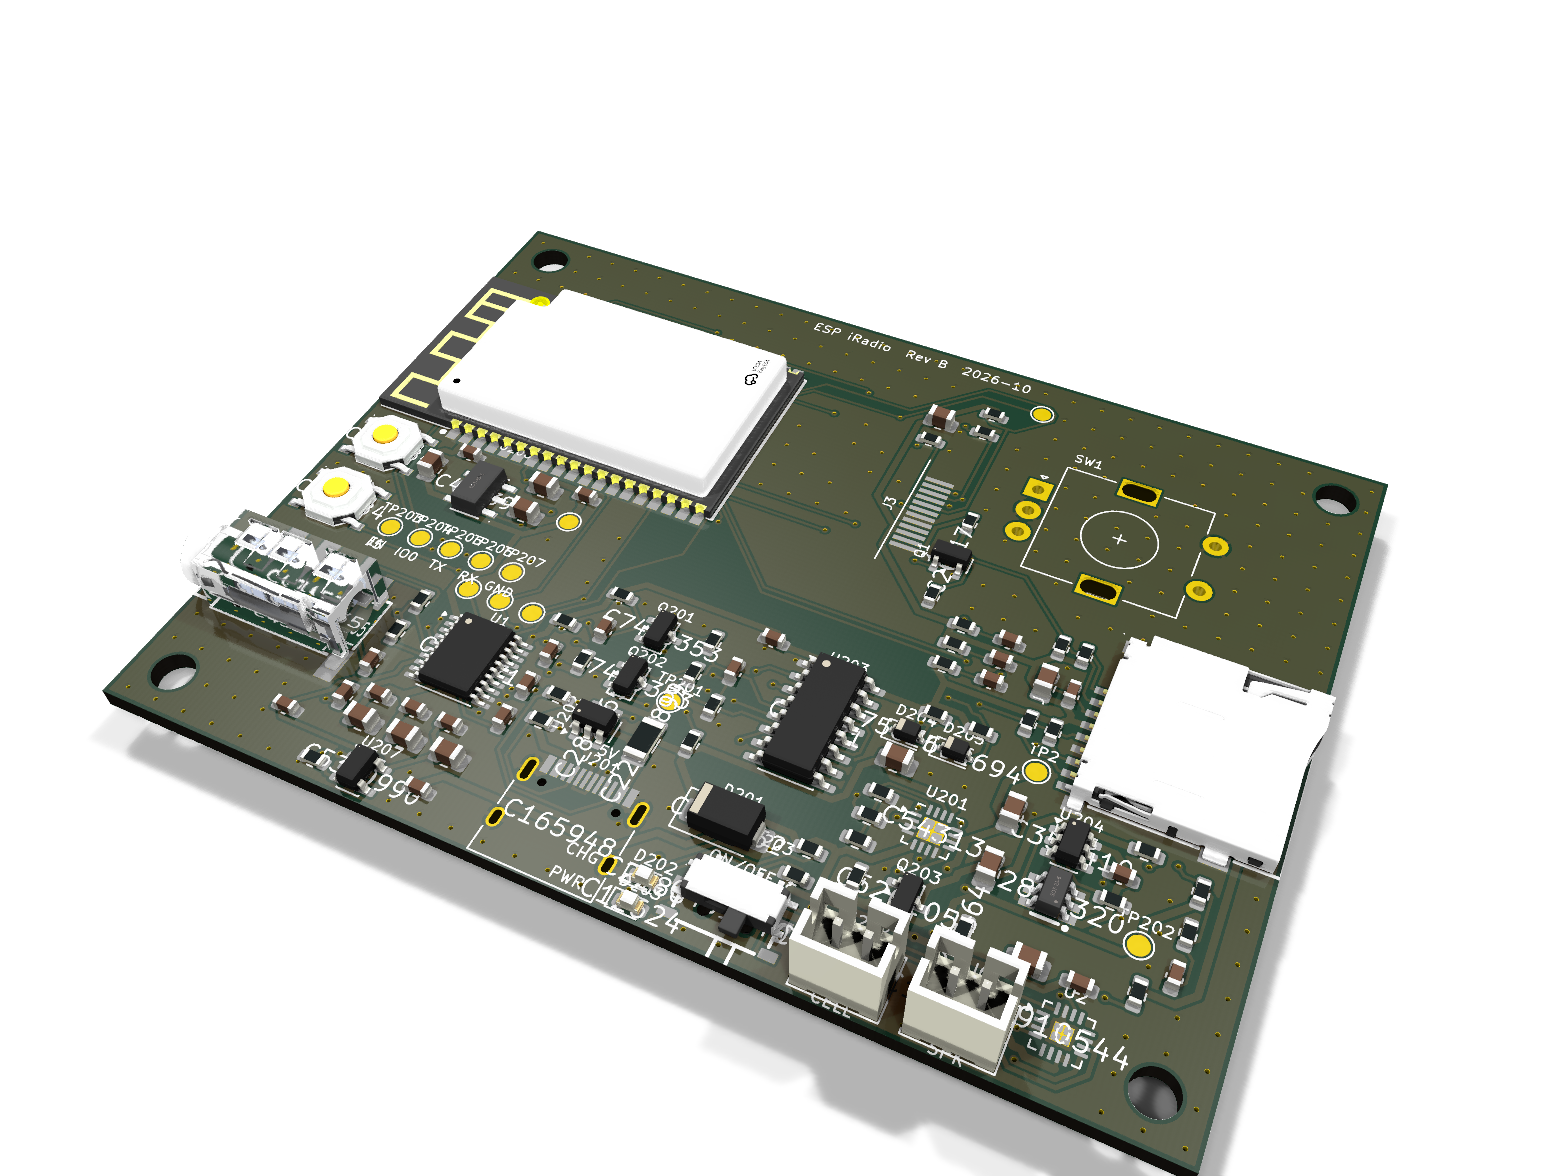
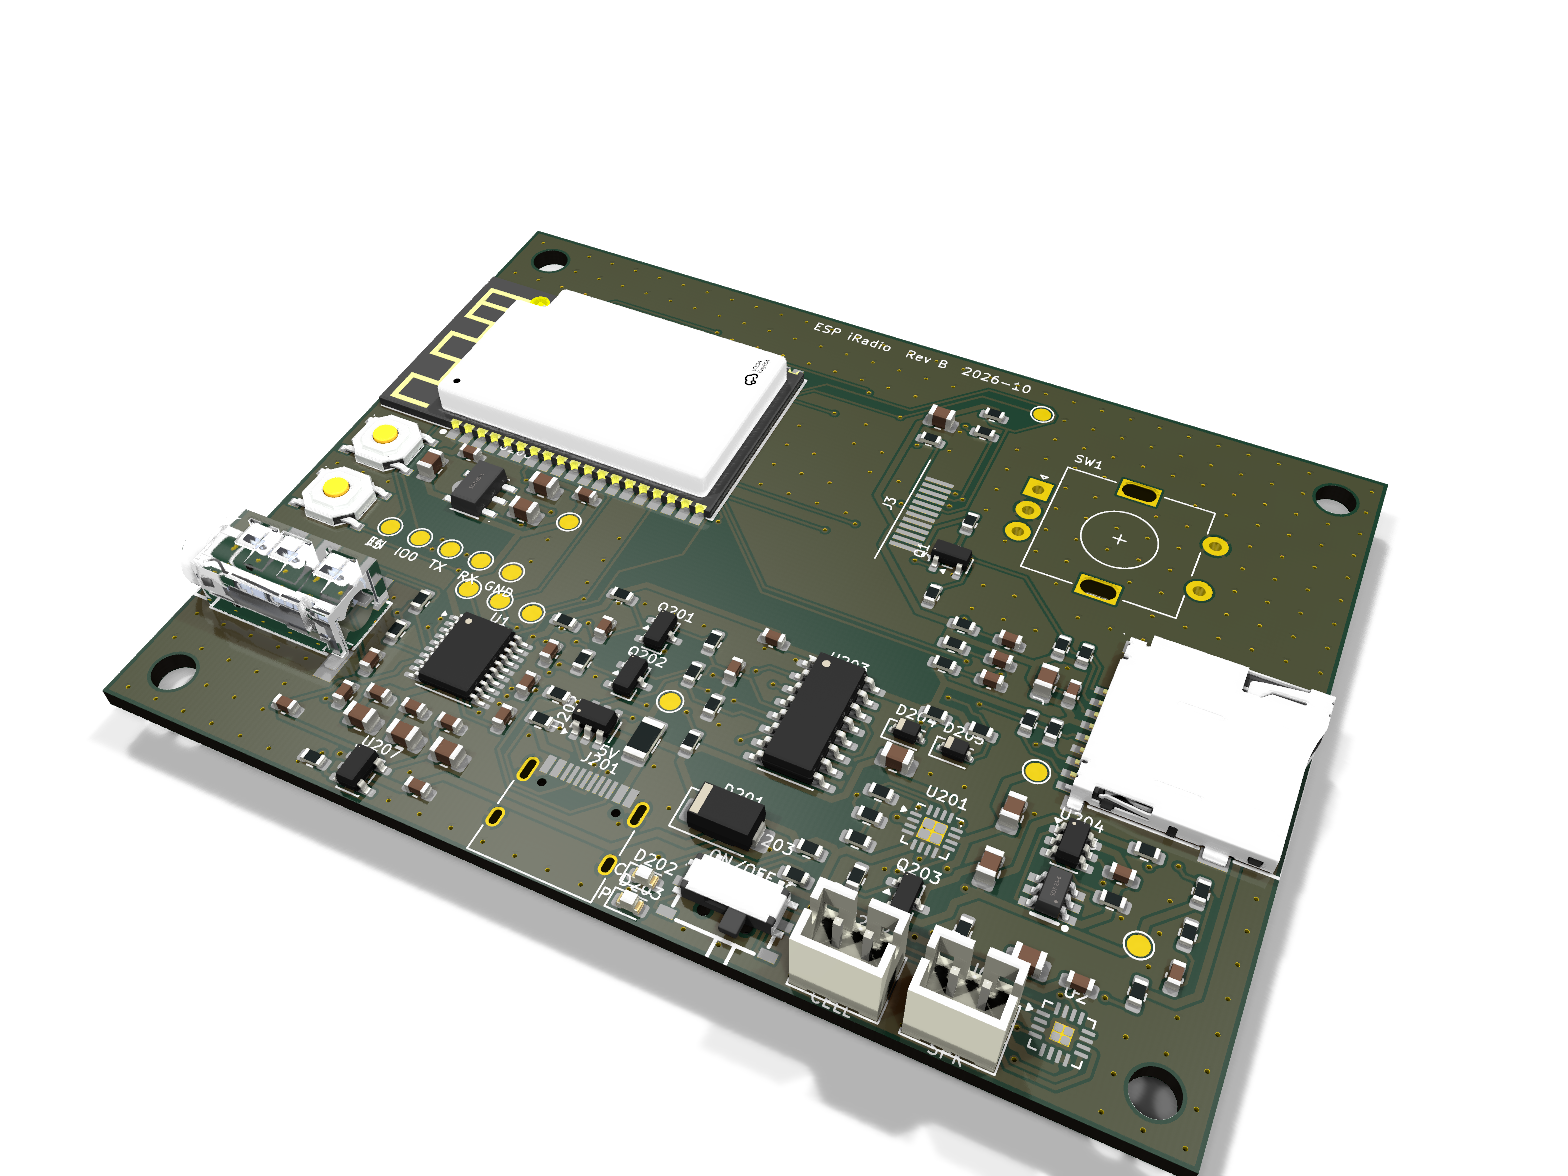
KiCad Rev B layout: review hand edits (thermal vias, LED labels)

diff --git a/KiCad/esp-iradio/tools/touchup.py b/KiCad/esp-iradio/tools/touchup.py
@@ -1,0 +1,119 @@
+"""Hand edits on the routed esp-iradio.kicad_pcb (agreed in the layout review, claude-/grok-bevindingen.md
+round 5); no regeneration, no new route. Run with KiCad's Python after stitch.py and silk.py:
+1. U201 (BQ24074) exposed pad: a fifth thermal via in the middle of the four (07: >= 5);
+2. U3 (WROVER-IE) ground land, 3 x 3 squares: a via at each inner corner of the gaps, as in
+   Espressif's land pattern (datasheet v2.4, figure 15), small and tented;
+3. charge-LED labels: "C" (CHG, red D202) and "P" (PWR, green D203) left of the LEDs, off the
+   USB-C body (the full words do not fit between the connector and the LEDs).
+Every new via is checked against the copper of other nets on all layers and against other holes;
+it is skipped (with a message) when it does not fit. Refills the zones and saves.
+Idempotent: a via already at the spot is not added twice."""
+import math
+import os
+import pcbnew
+
+HERE = os.path.dirname(os.path.abspath(__file__))
+PCB = os.path.join(os.path.dirname(HERE), 'esp-iradio.kicad_pcb')
+mm, tomm = pcbnew.FromMM, pcbnew.ToMM
+OX, OY = 100.0, 100.0
+CLR, HOLE_GAP = 0.2, 0.25
+
+board = pcbnew.LoadBoard(PCB)
+gnd = board.FindNet('GND')
+
+
+def seg_dist(px, py, ax, ay, bx, by):
+    dx, dy = bx - ax, by - ay
+    L = dx * dx + dy * dy
+    t = 0 if L == 0 else max(0, min(1, ((px - ax) * dx + (py - ay) * dy) / L))
+    return math.hypot(px - (ax + t * dx), py - (ay + t * dy))
+
+
+def via_fits(x, y, d, drill):
+    r = mm(d / 2)
+    c = pcbnew.VECTOR2I(int(x), int(y))
+    seg = pcbnew.SEG(c, c)
+    for t in board.GetTracks():
+        if t.GetClass() == 'PCB_VIA':
+            q = t.GetPosition()
+            gap = math.hypot(q.x - x, q.y - y) - mm(drill / 2) - t.GetDrillValue() / 2
+            if gap < mm(HOLE_GAP):
+                return 'hole %.2f mm from via at %s' % (tomm(gap), (round(tomm(q.x) - OX, 2), round(tomm(q.y) - OY, 2)))
+            if t.GetNetname() != 'GND' and math.hypot(q.x - x, q.y - y) < r + t.GetWidth(pcbnew.F_Cu) / 2 + mm(CLR):
+                return 'too close to a %s via' % t.GetNetname()
+        elif t.GetNetname() != 'GND':
+            a, b = t.GetStart(), t.GetEnd()
+            if seg_dist(x, y, a.x, a.y, b.x, b.y) < r + t.GetWidth() / 2 + mm(CLR):
+                return 'too close to a %s track on %s' % (t.GetNetname(), t.GetLayerName())
+    for fp in board.GetFootprints():
+        for p in fp.Pads():
+            if p.GetDrillSizeX() > 0:
+                q = p.GetPosition()
+                gap = math.hypot(q.x - x, q.y - y) - mm(drill / 2) - p.GetDrillSizeX() / 2
+                if gap < mm(HOLE_GAP):
+                    return 'hole %.2f mm from a hole of %s' % (tomm(gap), fp.GetReference())
+            if p.GetNetname() == 'GND':
+                continue
+            for lay in (pcbnew.F_Cu, pcbnew.B_Cu):
+                if p.IsOnLayer(lay) and p.GetEffectiveShape(lay).Collide(seg, int(r + mm(CLR))):
+                    return 'too close to pad %s of %s' % (p.GetNumber(), fp.GetReference())
+    return None
+
+
+def add_via(x, y, d, drill, why):
+    for t in board.GetTracks():
+        if t.GetClass() == 'PCB_VIA' and math.hypot(t.GetPosition().x - x, t.GetPosition().y - y) < mm(0.05):
+            print('via already there:', why)
+            return True
+    problem = via_fits(x, y, d, drill)
+    if problem:
+        print('SKIPPED %s: %s' % (why, problem))
+        return False
+    v = pcbnew.PCB_VIA(board)
+    v.SetPosition(pcbnew.VECTOR2I(int(x), int(y)))
+    v.SetWidth(mm(d))
+    v.SetDrill(mm(drill))
+    v.SetNet(gnd)
+    v.SetViaType(pcbnew.VIATYPE_THROUGH)
+    board.Add(v)
+    print('via added:', why)
+    return True
+
+
+# 1. fifth thermal via under the BQ24074: the centre of its exposed pad
+fp = board.FindFootprintByReference('U201')
+ep = [p for p in fp.Pads() if p.GetNumber() == '17' and p.GetDrillSizeX() == 0][0]
+c = ep.GetPosition()
+# the centre first, then the middles between the footprint's four vias (0.59 mm off centre)
+off = mm(0.59)
+for dx, dy in ((0, 0), (0, -off), (0, off), (-off, 0), (off, 0)):
+    if add_via(c.x + dx, c.y + dy, 0.5, 0.2, 'U201 exposed pad, 5th thermal via (%+.2f, %+.2f)' % (tomm(dx), tomm(dy))):
+        break
+
+# 2. WROVER ground land: vias at the four inner corners of the 3 x 3 squares
+fp = board.FindFootprintByReference('U3')
+sq = [p.GetPosition() for p in fp.Pads() if p.GetNumber() == '39']
+xs = sorted({q.x for q in sq})
+ys = sorted({q.y for q in sq})
+for i in range(2):
+    for j in range(2):
+        x = (xs[i] + xs[i + 1]) / 2
+        y = (ys[j] + ys[j + 1]) / 2
+        add_via(x, y, 0.4, 0.2, 'U3 ground land (%.2f, %.2f)' % (tomm(x) - OX, tomm(y) - OY))
+
+# 3. charge-LED labels
+for ref, old, new in (('D202', 'CHG', 'C'), ('D203', 'PWR', 'P')):
+    led = board.FindFootprintByReference(ref)
+    p1 = [p for p in led.Pads() if p.GetNumber() == '1'][0]
+    x = p1.GetPosition().x - p1.GetSize().x / 2 - mm(0.2)
+    y = p1.GetPosition().y
+    for d in board.GetDrawings():
+        if isinstance(d, pcbnew.PCB_TEXT) and d.GetLayer() == pcbnew.F_SilkS and d.GetText() in (old, new):
+            d.SetText(new)
+            d.SetHorizJustify(pcbnew.GR_TEXT_H_ALIGN_RIGHT)
+            d.SetPosition(pcbnew.VECTOR2I(int(x), int(y)))
+            print('label %s -> "%s" at (%.2f, %.2f)' % (old, new, tomm(x) - OX, tomm(y) - OY))
+
+pcbnew.ZONE_FILLER(board).Fill(board.Zones())
+board.Save(PCB)
+print('saved')

diff --git a/AGENTS.md b/AGENTS.md
@@ -397,8 +397,8 @@ Hardware:
   libraries in `lib/` incl. `lcsc` parts made with easyeda2kicad (STEP models git-ignored);
   status, decisions and open checks in its `NOTES.md`; Rev A, the carrier board for the Olimex
   module, is in git history; first layout of Rev B on 2026-10-15: 80 x 60 mm, 4 layers, generated
-  and autorouted by the scripts in `tools/` (Freerouting), DRC clean, renders in `renders/`, not
-  yet reviewed by hand) and the design input: `README.md` (overview, phase 1
+  and autorouted by the scripts in `tools/` (Freerouting), reviewed by Grok and Claude, hand edits
+  by `tools/touchup.py`, DRC clean, renders in `renders/`) and the design input: `README.md` (overview, phase 1
   carrier board for the Olimex board with display, EC11 encoder, microSD, PCM5102A line out and
   MAX98357A speaker amplifier; phase 2 integrated board later), `01-requirements.md` (incl. open
   questions for the owner), `02-pinout-and-nets.md` (every header pin and connector, must match
@@ -979,7 +979,8 @@ battery: the whole night + day (~14 h) until the 2500 mAh cell was empty; with t
   worked in. The board must be powered from a USB source of at least 1.5 A (owner's choice: the
   charger runs in ILIM mode, which has no input-voltage regulation for weak PC ports). First
   layout done the same night (80 x 60 mm, 4 layers, autorouted, DRC 0 errors / 0 unconnected / 0
-  parity issues). Still open (`KiCad/esp-iradio/NOTES.md`, "Layout"): review the routing by hand,
+  parity issues), reviewed by Grok and Claude, hand edits applied. Still open
+  (`KiCad/esp-iradio/NOTES.md`, "Layout"): a last look at the routing by the owner,
   PJ-320D pin order and MSK12C02 ON position on samples, short-shaft EC11, display FPC pin 1 and
   backlight resistor from the real panel, then JLCPCB BOM/CPL and STEP/DXF for the case. The
   firmware needs a few changes for that board (`PWR_CAL_PERMILLE` ~2500, charge state on

diff --git a/KiCad/esp-iradio/NOTES.md b/KiCad/esp-iradio/NOTES.md
@@ -90,12 +90,21 @@ signals off the GND plane; ~380 GND stitching vias; SMD pads join the outer pour
 with thermal reliefs. The USB pair is routed like any other signal (short, but not
 impedance-controlled).
 
+Review (Grok and Claude, 2026-10-15/16, `grok-bevindingen.md` / `claude-bevindingen.md`, rounds
+4-5): floor plan, stack, power widths, USB lengths (full speed: no 90 Ohm pair needed), I2S
+detours (fine at 1.4 MHz) and the parts under the panel checked; the U.FL end is at the left
+edge outside the panel (a first note that it sat under the glass used a y-up rotation and was
+withdrawn). Hand edits by `tools/touchup.py` on the routed board: a fifth thermal via in the
+BQ24074 pad (at -0.59 mm x from the centre: the centre and the y positions collide with the
+PGOOD_N track on In2.Cu), four 0.4/0.2 mm vias at the inner corners of the WROVER ground land,
+the charge-LED labels as "C" (CHG, red D202) and "P" (PWR, green D203) left of the LEDs (the
+words did not fit off the USB-C body). DRC again: 0 errors, 0 unconnected, 0 parity issues.
+
 Still to do on the layout (before ordering):
-- review the routing by eye in KiCad (autorouted: some detours, e.g. long I2S and SPI paths);
+- a last look at the routing in KiCad (autorouted; accepted in the review, detours included);
 - J3: pad orientation and pin 1 from the paper mock-up with the real panel; R22 value;
 - SW1: the short-shaft EC11 for the recessed knob (D16) and its footprint;
 - SW203: which slide position is ON (silk says "ON/OFF ?");
-- charge-LED labels "CHG"/"PWR" sit inside the USB-C outline (move when the LEDs move);
 - silkscreen warnings come from the footprints' own outlines (JLCPCB clips silk on pads);
 - two narrow necks (< 0.15 mm) in the B.Cu GND pour (warnings);
 - 3D models: this PC's KiCad has no `Connector_USB` and `Rotary_Encoder` 3D folders (install

diff --git a/claude-bevindingen.md b/claude-bevindingen.md
@@ -44,9 +44,17 @@ Everything in Grok's "Measured, and fine" list matches my own checks (power clas
 lengths at full speed, I2S detours acceptable at 1.4 MHz, nothing tall under the panel, polarity
 silk on J202/J6).
 
-Proposed next step (waiting for the owner's go): a small script `tools/touchup.py` that applies 1-3
-to the existing `esp-iradio.kicad_pcb` (no `mkpcb.py`, no Freerouting), then DRC with schematic
-parity again.
+**Done** (owner's go; Grok withdrew the U.FL note): `tools/touchup.py` applied 1-3 to the existing
+board, no `mkpcb.py`, no Freerouting:
+1. U201: fifth thermal via (0.5/0.2 mm) at (57.61, 45.60), between the footprint's two left vias.
+   The centre and the positions above/below it collide with the PGOOD_N track on In2.Cu, which
+   runs under the pad; the script checks every via against other-net copper on all layers.
+2. U3 ground land: four 0.4/0.2 mm vias at the inner corners, (15.28, 18.39), (15.28, 19.79),
+   (16.68, 18.39), (16.68, 19.79); the four stitch vias outside the land stay.
+3. Charge-LED labels: "C" (CHG, red D202) and "P" (PWR, green D203), right-aligned at x 41.18 left
+   of the LEDs, off the USB-C body (the full words do not fit there); the meaning is in NOTES.md.
+Checks after the edit: DRC with schematic parity 0 errors, 0 unconnected items, 0 parity issues;
+warnings as before (footprint silk outlines, two narrow necks in the B.Cu pour). Renders updated.
 
 ## Round 4: first layout (Rev B draft) - please review
 

diff --git a/KiCad/esp-iradio/tools/README.md b/KiCad/esp-iradio/tools/README.md
@@ -37,6 +37,8 @@ Expected: ERC 1 warning (the MAX98357A exposed pad, pin type unspecified, on GND
 | `route.py` | Specctra DSN export, Freerouting, SES import, GND pours on F.Cu/B.Cu (SMD pads solid, THT pads thermal), zone fill. `--keep` routes only what is still open |
 | `stitch.py` | GND stitching vias on a 2.5 mm grid where the outer pours have room, a via (or a short track) for every pour island |
 | `silk.py` | silkscreen: references only on connectors, ICs, switches, LEDs and transistors; fields hidden; polarity and function markings, title |
+| `touchup.py` | hand edits on the routed board (review round 5): fifth BQ24074 thermal via, vias in the WROVER ground land, charge-LED labels "C"/"P"; checks every via against other-net copper and holes; idempotent |
+| `relink.py` | points every footprint at its schematic symbol again (path from the netlist) without touching the layout |
 | `fplib.py`, `netparse.py` | footprint loading and netlist reading for the board scripts |
 
 The board scripts run with KiCad's own Python. Freerouting 1.9.0 needs Java (17 or newer); on the
@@ -54,6 +56,7 @@ python pcbrules.py
 %KP% route.py 40 --keep
 %KP% stitch.py
 %KP% silk.py
+%KP% touchup.py
 kicad-cli pcb drc --schematic-parity --severity-all -o drc.rpt ../esp-iradio.kicad_pcb
 ```
 

diff --git a/KiCad/06-checklist-and-bring-up.md b/KiCad/06-checklist-and-bring-up.md
@@ -16,8 +16,10 @@ Before the layout (details in `esp-iradio/NOTES.md`):
 Layout:
 - [x] First layout (Rev B draft, 2026-10-15): DRC 0 errors, 0 unconnected, 0 schematic parity
       issues; "+"/"-" silk at J202 and J6; recovery pads labelled; U.FL at the left edge.
-- [ ] Routing reviewed by eye in KiCad (autorouted); USB pair short and parallel.
-- [ ] BQ24074 >= 5 thermal vias (the footprint has 4), WROVER ground-land vias.
+- [x] Layout reviewed by Grok and Claude (round 4-5): placement, U.FL at the left edge, power
+      widths, USB lengths, I2S detours accepted.
+- [x] BQ24074 5 thermal vias, WROVER ground-land vias (`tools/touchup.py`); LED labels "C"/"P".
+- [ ] A last look at the routing in KiCad by the owner.
 
 Before ordering:
 - [ ] DRC clean with the JLCPCB 4-layer rules after the hand changes.

diff --git a/KiCad/README.md b/KiCad/README.md
@@ -3,8 +3,8 @@
 This folder holds everything an AI agent (Claude, Grok, ...) or a person needs to design a printed
 circuit board for this radio in **KiCad 9**. The KiCad project is `esp-iradio/`: **schematic Rev B
 of the integrated board** (2026-10-15, two A3 sheets in Elektuur/Elektor style, generated by the
-scripts in `esp-iradio/tools/`; first layout 80 x 60 mm, 4 layers, autorouted, DRC clean, not yet
-reviewed by hand). Its status, decisions, libraries and the
+scripts in `esp-iradio/tools/`; first layout 80 x 60 mm, 4 layers, autorouted, reviewed by Grok
+and Claude, hand edits applied, DRC clean). Its status, decisions, libraries and the
 checks still open before the layout are in `esp-iradio/NOTES.md`.
 
 ## What the board is
